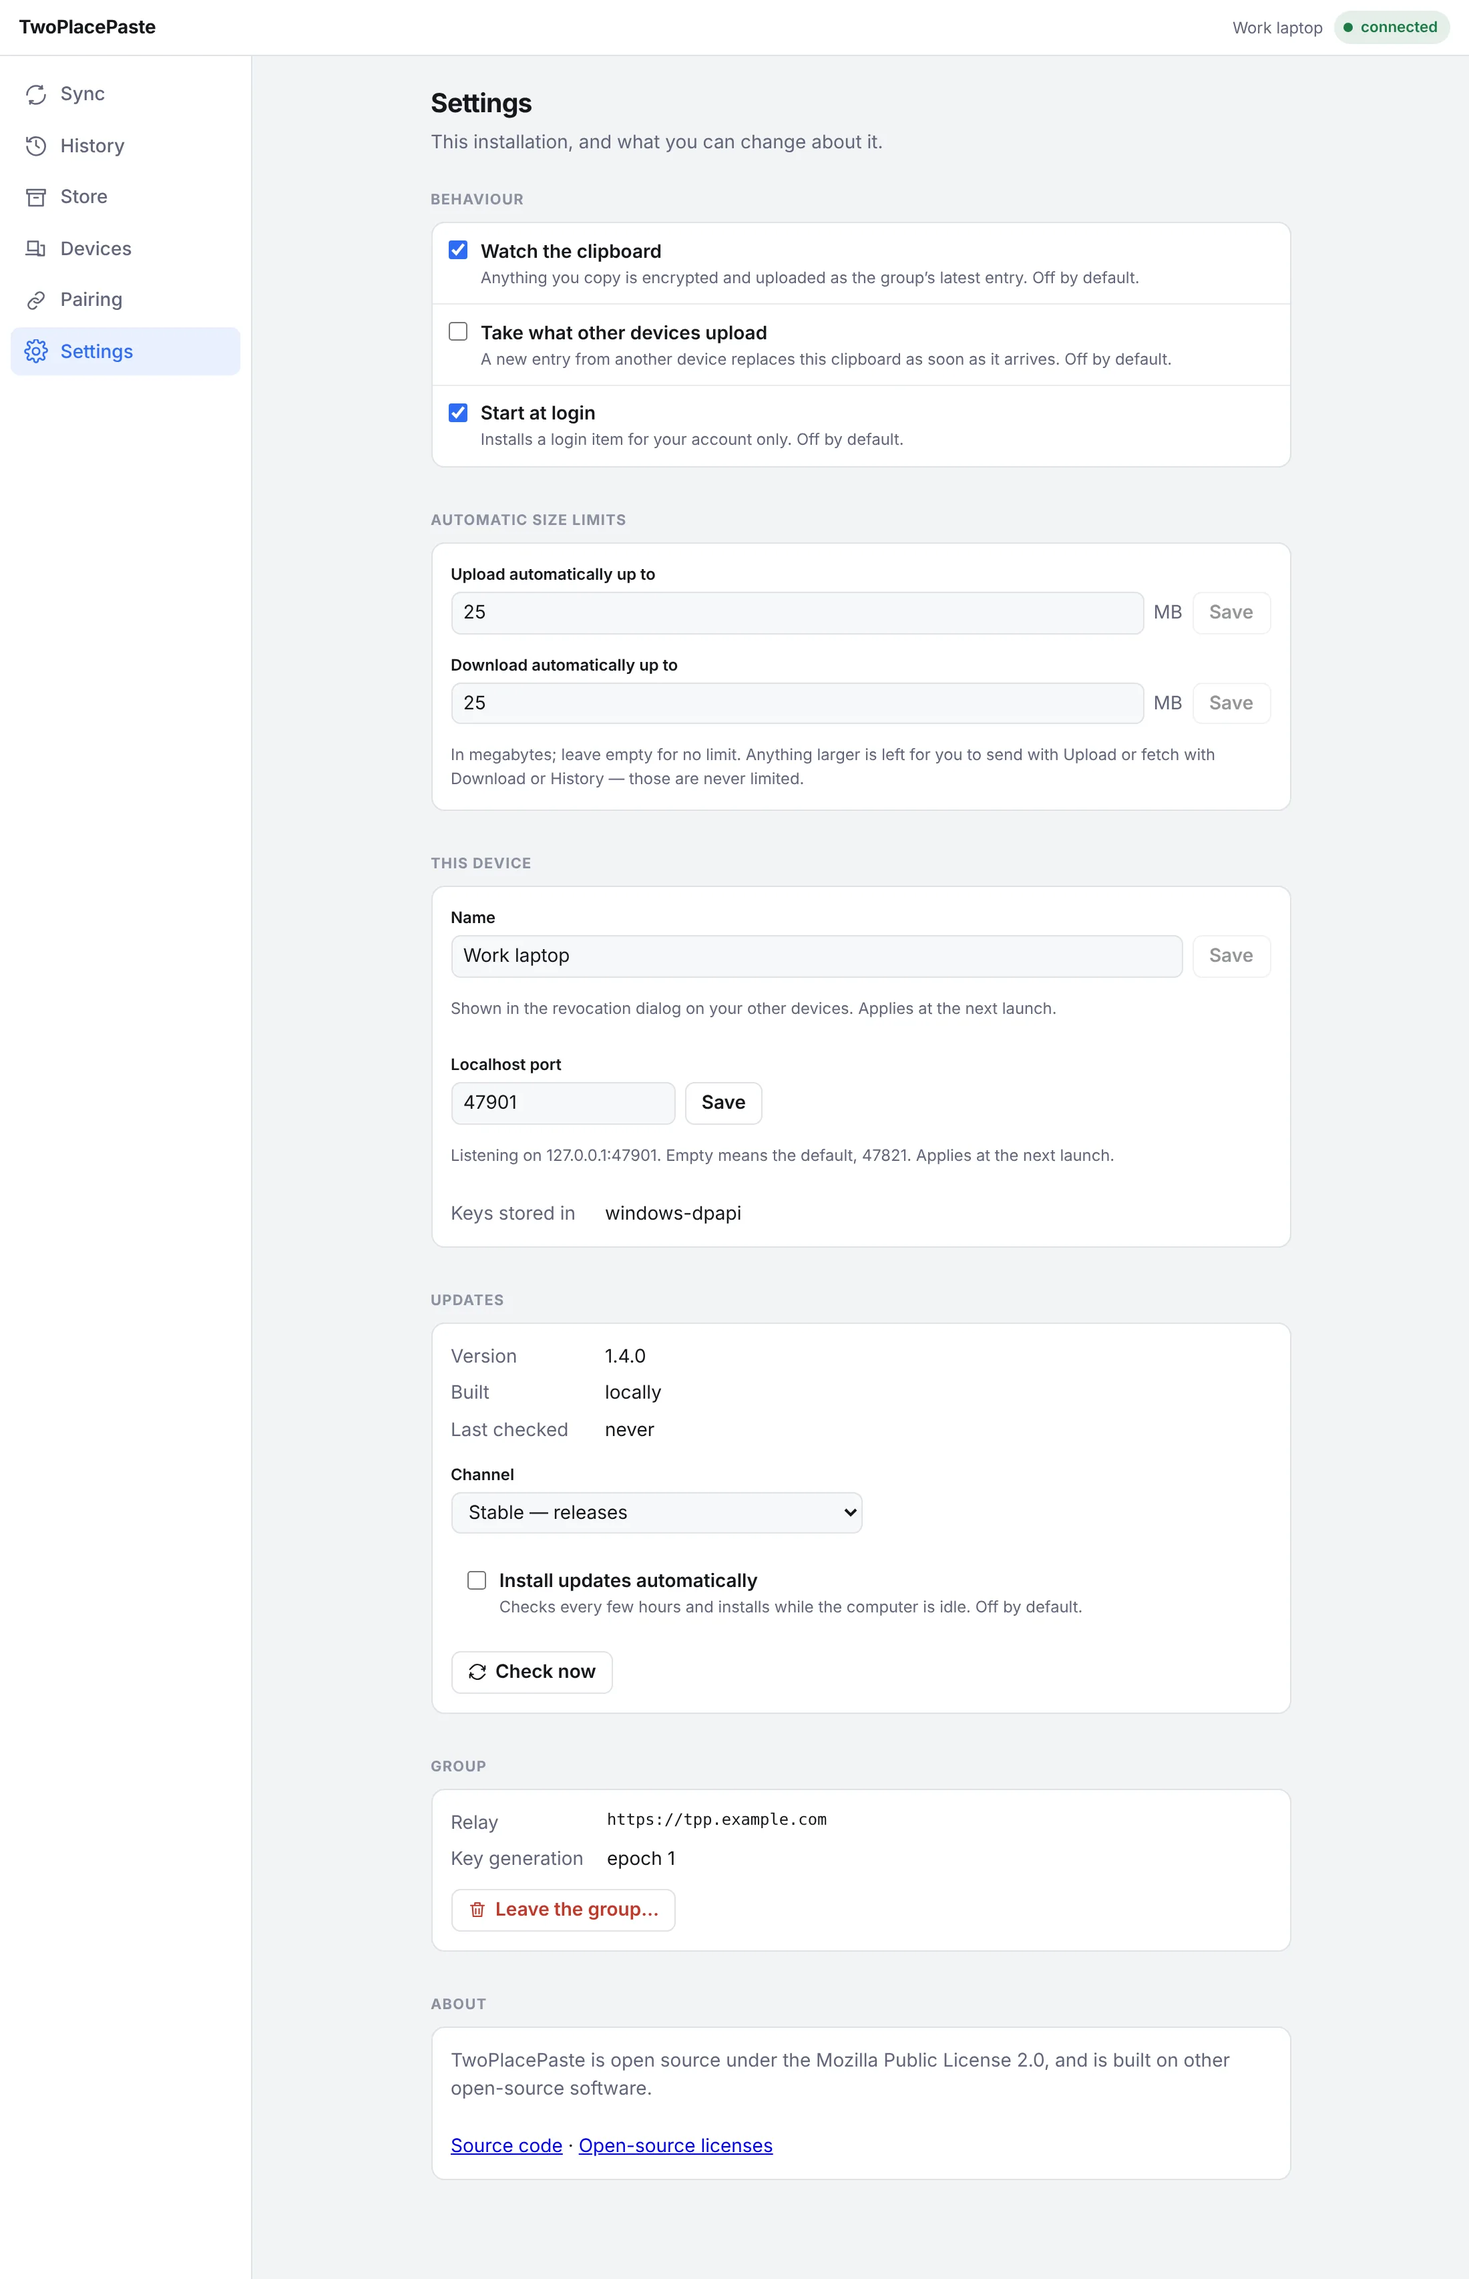
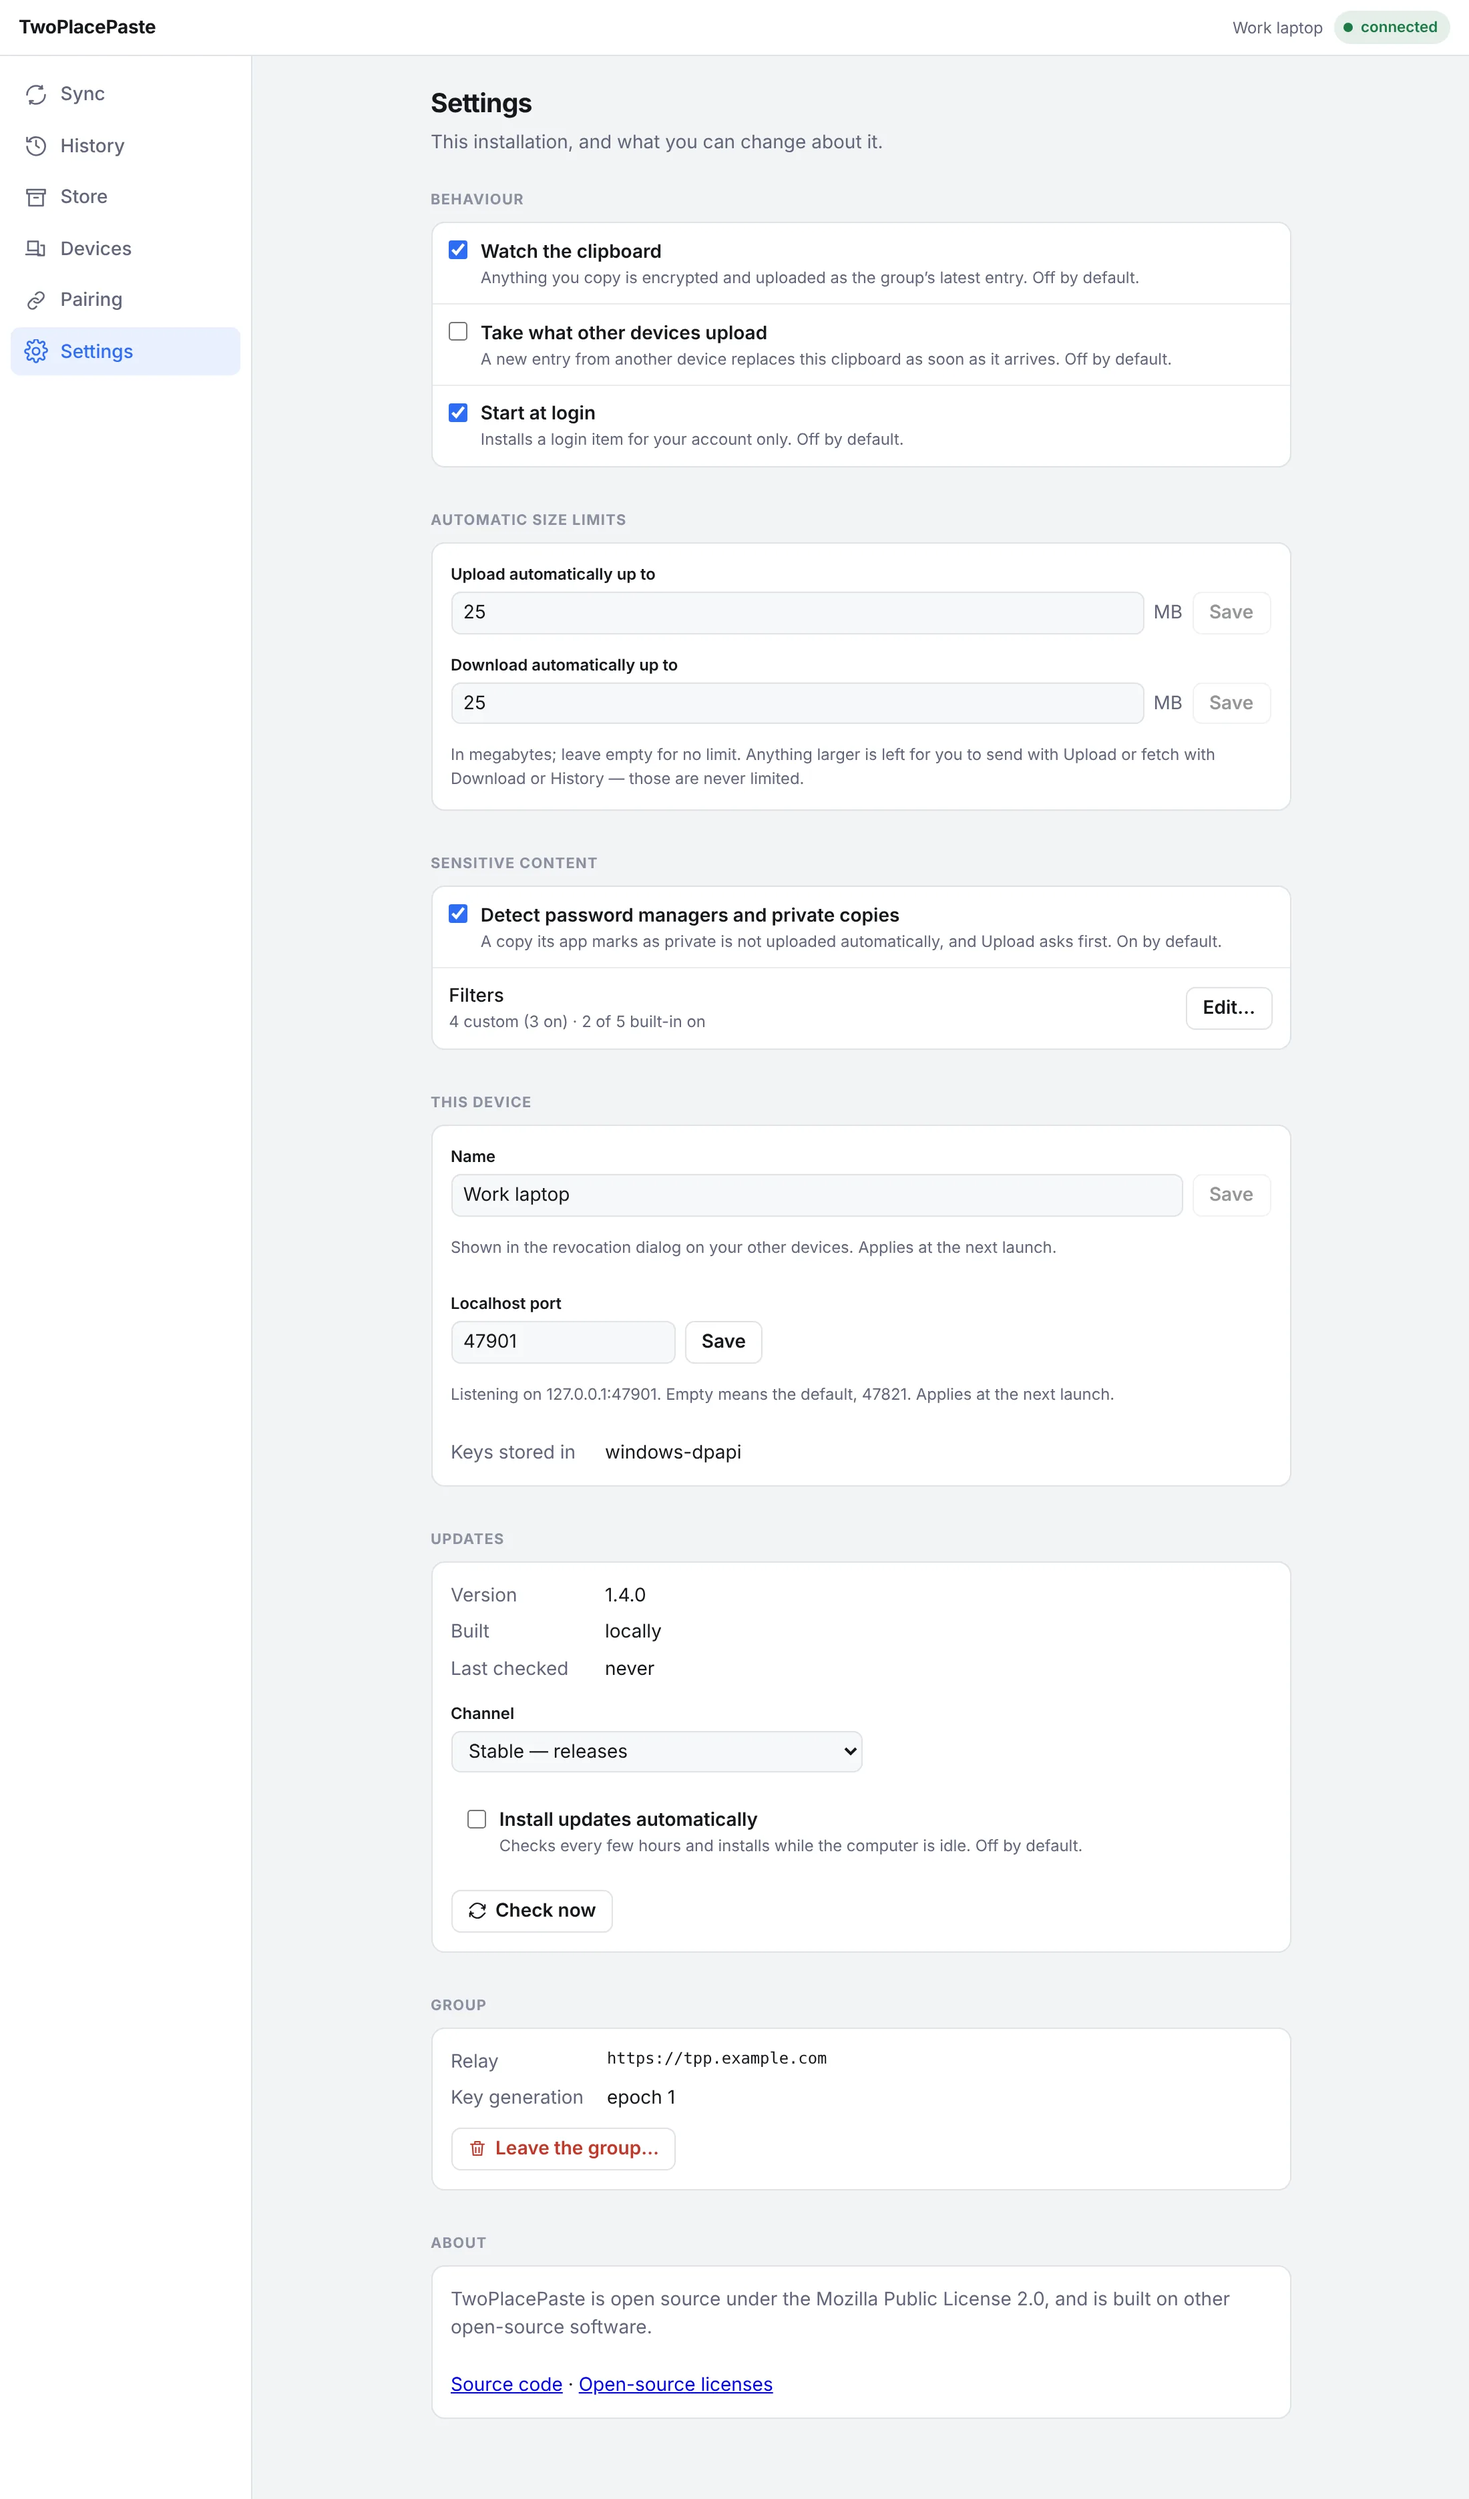
Document sensitive content and auto-upload filters
Last step of docs/internal/plans/auto-upload-filters.md.

- Docs site: a Sensitive content guide (password-manager markers per
  OS, the built-in detectors, every filter kind with examples, the
  editor, the masked clipboard and "push anyway"), linked from the
  sidebar, Settings, Sync, Tray, Troubleshooting, Security and the FAQ.
  The settings file is no longer described as holding nothing secret:
  filter values are in it as typed, except exact matches.
- Screenshots: Settings retaken; new ones of the filter editor, the
  masked clipboard and the protected-entry dialog.
- SPEC §7.2 gains the sensitive-content rule; the roadmap lists the
  feature as in review; desktop/README.md covers the new package,
  the logging rule and the cgo requirement for the macOS marker.
- The plan is marked implemented, with an As built section for where
  the code differs from it and what still needs a Mac and a Windows
  machine: compiling the cgo code and the password-manager matrix.

Claude-Session: https://claude.ai/code/session_01U8D8j7vRvUxz7HoWPv7JZq

diff --git a/docs/internal/plans/auto-upload-filters.md b/docs/internal/plans/auto-upload-filters.md
@@ -1,6 +1,8 @@
 # Plan — Sensitive clipboard content and auto-upload filters (desktop)
 
-**Status:** proposed.
+**Status:** implemented on `claude/auto-upload-filters-wsfin5`, in the six commits of §6.
+§8 records where the build differs from the plan below, and why; the plan itself is kept
+as it was agreed.
 **Touches:** `/desktop/**` (clipboard, config, service, localui, tray, UI),
 `/docs/internal/SPECS.md` §7.2, `/docs/site/**`. No change to `/proto`, `/spec`, the
 server, `pkg/tppclient` or mobile.
@@ -365,3 +367,86 @@ One PR, in this commit order, each passing `make test lint` and `npm run typeche
   auto-apply (spec + vectors + Go + TS).
 - A *source app* filter (foreground app at copy time), if wanted later.
 - Mobile, if it ever gains auto-upload.
+
+## 8. As built
+
+Everything in §4 and §5 was built. These are the places the code differs from the text
+above, and why.
+
+**OS detection (§4.1)**
+
+- The reason the user sees is *"Marked private by the app that copied it"*, and macOS's
+  transient and auto-generated types read as *"Marked temporary by the app that copied
+  it"*, so the two are told apart.
+- macOS, when the change count moves during a read twice in a row: the marker is taken
+  from *both* type lists rather than dropped. A race can then mark a plain copy as
+  private (it costs a question) but can never unmark a password (it would cost a leak).
+- Windows reads a DWORD format through a dedicated `readDWORD`, which copies four bytes
+  and no more, instead of the general `readBytes`.
+- **Not done here:** the manual test matrix with real password managers, and compiling
+  the macOS cgo code (`pasteboard_darwin.go`, `notify_darwin.m`), which this Linux
+  environment cannot do. Both need a Mac and a Windows machine before merge.
+
+**Classifier (§4.2)**
+
+- `Classify(content)` takes no context: it does no I/O. `Verdict.Rule` replaces
+  `FilterID` and also names a detector. `Matches` returns every match, for the test box.
+- The first benchmark ran 18 s on 50 MB of text. Three rules were rewritten to bring a
+  full configuration (every detector, four filters) to about 0.7 s:
+  - API tokens and JWTs jump between occurrences of each literal prefix and run an
+    anchored pattern on a short window there, instead of one alternation tried at every
+    byte. The token list also gained GitHub's `ghu_`/`ghr_`, Stripe's `rk_live_`,
+    GitLab, npm and SendGrid.
+  - Cards and IBANs are byte scanners, not regular expressions with counted repetition.
+    The IBAN scanner tries every group boundary as the end, so a trailing capitalised
+    word does not hide the number before it.
+  - Case-insensitive *contains* lower-cases the text once, shared by every such filter,
+    instead of a `(?i)` regular expression per filter. *Starts with* uses an anchored
+    `(?i)` pattern; *ends with* runs one on the last `4 × len(value)` bytes.
+- The log line is `"clipboard change not uploaded automatically: sensitive"` with
+  `source` and `rule`.
+
+**Service and API (§4.4, §4.5)**
+
+- Push plans have their own map, `pushPlans`, rather than sharing the revocation plans'.
+- A classification is cached by content digest and classifier, so the status refresh
+  and the watcher do not hash an exact filter twice for one copy.
+- A sensitive skip publishes `EventSensitive` (not `EventClipboard`) and clears an
+  upload `Skipped` notice, which was about the copy it replaced.
+- `POST /api/filters/test` also takes the draft's detectors, so the Built-in tab's
+  switches are tested before saving. New filters get their id in the editor, so a match
+  can point at an unsaved row.
+- A full filter list (200 × 1 KiB) and a 1 MiB test sample exceed the API's 64 KiB body
+  limit; `POST /api/settings` and `POST /api/filters/test` have limits of their own.
+
+**Tray (§4.6)**
+
+- `AskSensitive(planID, reason)` keeps the plan id in the tray. The question is withdrawn
+  after two minutes, the plan's life, rather than when the clipboard changes; confirming
+  after a change gets a new question about the new copy, which is the same outcome.
+- The notification reads *"This is a protected entry"* / *"<reason>. Push it to your
+  other devices anyway?"*.
+
+**UI (§4.7)**
+
+- A saved exact filter shows the placeholder *"Saved — type to replace"* rather than
+  "set". The kind is labelled *"Exact match"*; *"only a hash is kept"* is in its
+  placeholder, because the long label was cut off in the select.
+- Only the rows scroll inside the editor, so the tabs and the test box stay in view.
+- With unsaved changes the editor cannot be dismissed with Escape or the backdrop;
+  Cancel asks *"Discard your changes?"*.
+- `Modal` now focuses an element marked `data-autofocus` when it opens: React's
+  `autoFocus` ran while the dialog was still closed, so the close button took the focus
+  and the "push anyway?" dialog did not default to Cancel.
+- The UI has no test runner; a Playwright script against the built UI with a mocked API
+  checked the masked clipboard, reveal, push anyway, both tabs, turn all on/off, the
+  discard question and what Save sends. It is not committed.
+
+**Docs (§4.8)**
+
+- The detectors and filter kinds have a page of their own,
+  `guides/sensitive-content.mdx`, which Settings, Sync, Tray, Troubleshooting, Security
+  and the FAQ link to. The `!cgo` note is in `desktop/README.md`, where a developer
+  building without cgo will read it.
+- `desktop-sync.webp` is unchanged (its state did not change); the masked clipboard and
+  the protected-entry dialog have new screenshots, and Settings was retaken.

diff --git a/desktop/README.md b/desktop/README.md
@@ -46,8 +46,9 @@ environment.
 | `cmd/tppdesktop` | The binary: logging, keystore, wiring, shutdown. |
 | `internal/service` | Sync direction (SPEC §6), the revocation gate (SPEC §3.3), settings. |
 | `internal/localui` | The localhost server: token, Origin check, embedded UI, JSON API, event stream. |
-| `internal/clipboard` | Per-OS clipboard plus the watcher and its self-write suppression. |
-| `internal/tray` | Tray icon, its status glyphs, the menu, notifications (the sync-direction prompt), and the visible bind failure. |
+| `internal/clipboard` | Per-OS clipboard plus the watcher and its self-write suppression, and the password managers' privacy markers (`markers.go`). |
+| `internal/sensitive` | What counts as sensitive: the OS marker, built-in detectors and the user's filters (`docs/internal/plans/auto-upload-filters.md`). |
+| `internal/tray` | Tray icon, its status glyphs, the menu, notifications (the sync-direction and protected-entry prompts), and the visible bind failure. |
 | `internal/autostart` | launchd agent (macOS) and the HKCU Run key (Windows). |
 | `internal/config` | The settings file. Non-secret by design: the port must be editable by hand. |
 | `internal/update` | The auto-updater: Stable, Beta and Nightly sources, manifest signatures, the in-place swap. |
@@ -68,6 +69,12 @@ Anything in the user's browser can reach `127.0.0.1`, so:
 
 Secrets are the keystore's, not this module's: the device private key and the group
 key never reach the settings file or a log.
+
+Sensitive-content filters may hold the user's own private text, so neither a filter's
+value nor its label is ever logged; a match is logged by source and rule id only. An
+exact-match filter keeps only an argon2id hash. The macOS privacy marker is read
+through AppKit, so a build with `CGO_ENABLED=0` cannot see it and treats no copy as a
+password manager's; release builds use cgo.
 
 ## Windows has no console, so there is a log file
 

diff --git a/docs/internal/SPECS.md b/docs/internal/SPECS.md
@@ -707,6 +707,12 @@ binary, served from localhost and opened in the user's default browser.
   from bytes the page fetches with its token. A file whose bytes do not match its name
   is not previewed.
 - Device management and pairing (show QR, scan not applicable — paste token)
+- Sensitive content: a clipboard change that its application marked as private (a password
+  manager's), or that matches a built-in detector or one of the user's filters, is never
+  uploaded by auto-watch, is masked on screen, and is uploaded by hand only after the user
+  confirms. Detection of the OS marker is on by default; the decision and the filters are
+  local to the device and nothing about them reaches the relay or the wire
+  (`docs/internal/plans/auto-upload-filters.md`).
 
 **Autostart on login:** user setting, **default off**. Implemented via launchd plist on
 macOS and a registry Run key on Windows.

diff --git a/docs/site/src/content/docs/faq.md b/docs/site/src/content/docs/faq.md
@@ -9,6 +9,13 @@ No, and there will not be a way to. Every entry lives exactly 24 hours. The rela
 whole hours of storage at once without looking anything up, and that only works because no entry's
 lifetime can change.
 
+### Will it upload passwords I copy from my password manager?
+
+Not on its own. The desktop app recognises what most password managers mark as private, and keeps it
+on that computer even with *Watch the clipboard* on; you can still push it by hand after a
+confirmation. You can add your own filters too. See
+[Sensitive content](/two-place-paste/guides/sensitive-content/).
+
 ### Can the server operator read my clipboard?
 
 No. The relay only ever has ciphertext and a wrapped copy of your group's key that it cannot

diff --git a/docs/site/src/content/docs/security.md b/docs/site/src/content/docs/security.md
@@ -53,6 +53,13 @@ to reach `127.0.0.1`, the app:
   `localStorage`,
 - checks the `Origin` header on every request, including the WebSocket.
 
+## Passwords on the clipboard
+
+With *Watch the clipboard* on, the desktop app does not upload a copy that its application marked as
+private — a password manager's, most often — or one that matches a built-in detector or your own
+filter. You can still send it by hand, after a confirmation. This is decided on your computer, and
+the relay never learns about it. See [Sensitive content](/two-place-paste/guides/sensitive-content/).
+
 ## Reporting a problem
 
 Please report security issues privately through

diff --git a/docs/internal/ROADMAP.md b/docs/internal/ROADMAP.md
@@ -964,6 +964,16 @@ moving the risk onto the member, and the work split are in
 
 ---
 
+## Desktop feature — sensitive content and auto-upload filters
+
+🔍 **In review.** Keeps password-manager copies and anything matching a built-in detector
+or a user filter out of auto-upload, masks it on the Sync screen, and asks before a manual
+push, from the UI or the tray. Desktop only and local only: no wire, spec or server
+change. Plan, decisions and what was built differently are in
+[`docs/internal/plans/auto-upload-filters.md`](plans/auto-upload-filters.md).
+
+---
+
 ## Deferred backlog — do not let agents start these
 
 | Item | Spec ref |
